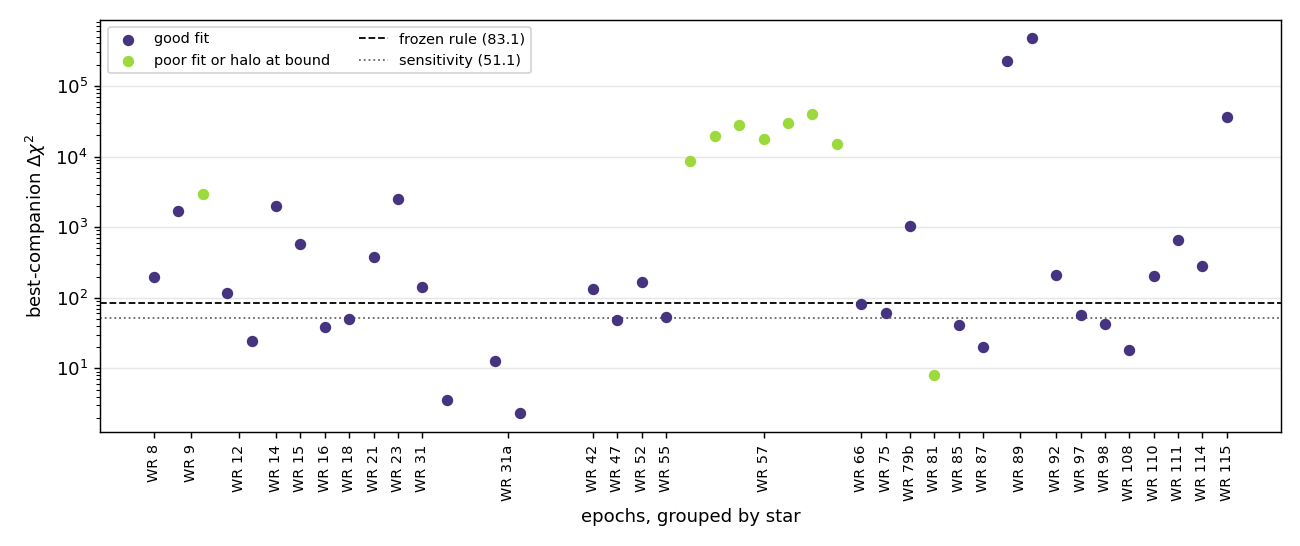
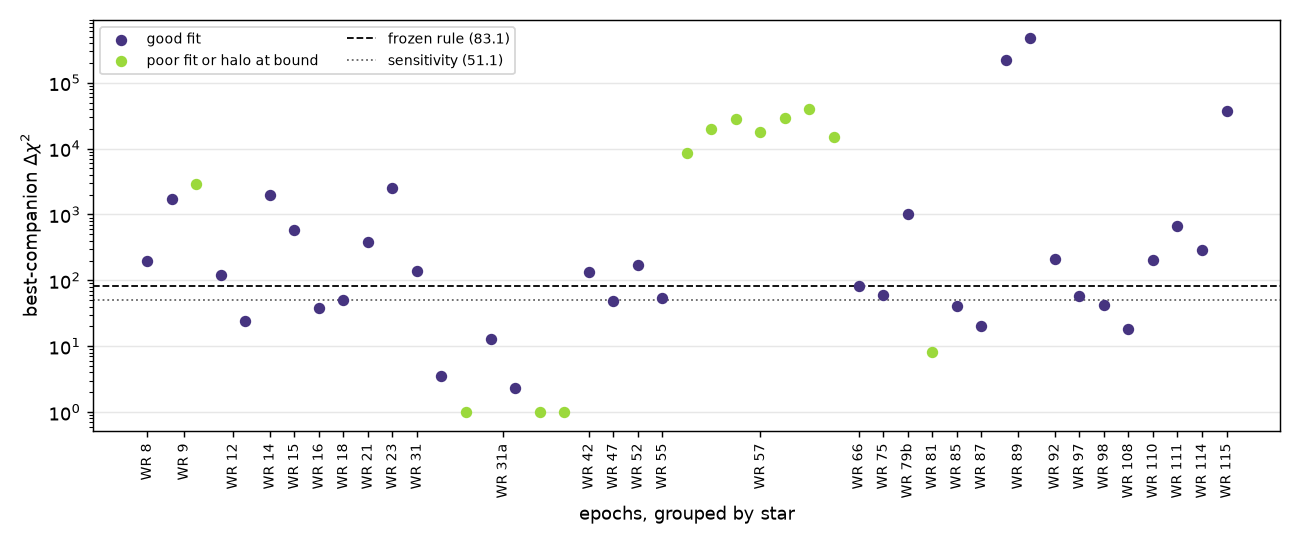
Address Argon review: show Delta-chi2 = 0 epochs in figure 1, regenerate figures with numeric star order, register page as showcase

diff --git a/scripts/wr_gravity_figures.py b/scripts/wr_gravity_figures.py
@@ -21,6 +21,7 @@ OUT = REPO / "docs" / "wr_gravity"
 CATALOGUE = pathlib.Path("~/data/wr_gravity/products/real1/catalogue.csv").expanduser()
 RULE, SENSITIVITY = 83.1, 51.1
 CHI2_CUT, FLUX_CUT = 2.98, 0.037
+FLOOR = 1.0  # where delta-chi2 <= 0 is drawn on the log axis
 GOOD, BAD = plt.cm.viridis(0.15), plt.cm.viridis(0.85)
 
 
@@ -39,7 +40,8 @@ def delta_chi2(rows, path):
     rows = sorted(rows, key=lambda r: (int(r["wr"].rstrip("ab")), r["wr"], int(r["night"])))
     fig, ax = plt.subplots(figsize=(10, 4.2))
     for good, colour, label in ((True, GOOD, "good fit"), (False, BAD, "poor fit or halo at bound")):
-        sel = [(i, r["dchi2_max"]) for i, r in enumerate(rows) if r["good_fit"] == good]
+        # a best companion that does not improve on the null has dchi2_max = 0, which a log axis would drop
+        sel = [(i, max(r["dchi2_max"], FLOOR)) for i, r in enumerate(rows) if r["good_fit"] == good]
         ax.scatter([i for i, _ in sel], [y for _, y in sel], color=colour, s=28, label=label, zorder=3)
     ax.axhline(RULE, color="k", ls="--", lw=1, label=f"frozen rule ({RULE})")
     ax.axhline(SENSITIVITY, color="0.4", ls=":", lw=1, label=f"sensitivity ({SENSITIVITY})")

diff --git a/scripts/trust.py b/scripts/trust.py
@@ -249,7 +249,7 @@ REFERENCE_DOCS = {
 NOT_TOPIC_PAGES = {"index.md", "trust.md", "evidence.md", "results.md", "tests/index.md"}
 # Showcase pages (real-data results): the explanation of a part only when no
 # function-test page covers it, like the method pages.
-SHOWCASE_PAGES = {"imaging/postagb.md", "orbits/index.md", "imaging/imlup.md"}
+SHOWCASE_PAGES = {"imaging/postagb.md", "orbits/index.md", "imaging/imlup.md", "wr_gravity/index.md"}
 
 
 def slugify(text):

diff --git a/docs/wr_gravity/index.md b/docs/wr_gravity/index.md
@@ -87,7 +87,8 @@ rule.
 
 *Figure 1. Best-companion Δχ² per epoch, grouped by star. Dashed line: the
 frozen 83.1 threshold (largest of the 17 nulls); dotted: the 51.1 sensitivity
-value. Epochs with a poor fit or the halo at its bound are shown in yellow.*
+value. Epochs with a poor fit or the halo at its bound are shown in yellow.
+Three WR 31a epochs have Δχ² = 0 (no improvement on the null) and are drawn at 1.*
 
 ![Physical flux against reduced chi-squared for rule-passing epochs](flux_vs_chi2.png)
 
